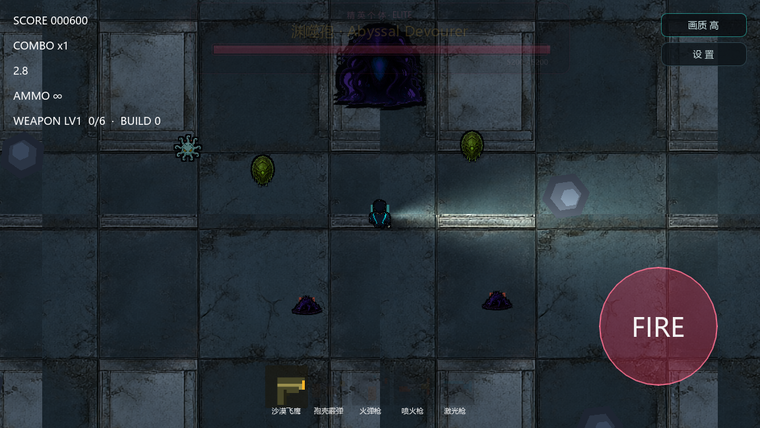
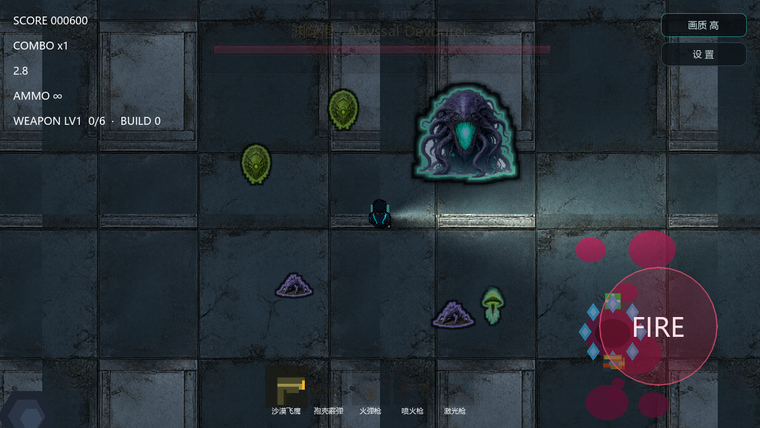
polish(wave2): fix readability and pacing of the second wave
First in-game screenshots showed the realistic agnes concept art collapsing into
dark blobs on the dark arena floor. Root causes and fixes:

- tint double-darkening: Enemy._apply_visual() multiplies the texture by
  stats.tint, a mechanism meant for plain white-base sprites. Realistic art
  already has full colour, so dark purple tints (Abyss 0.34/0.18/0.58) crushed
  it to near-black. All 4 wave-2 tints are now near-white; theme colour comes
  from the art itself.
- unreliable runtime outline: Enemy.tscn's outline shader is near-black and is
  disabled entirely on low quality. Theme-coloured glowing rims are now baked
  into the PNGs via tools/polish_wave2_sprites.py (PIL gamma lift + alpha
  dilation), so they survive every quality tier. Near-black pixels on the Abyss
  boss dropped 74.6% -> 26.3%, Burrower 72.4% -> 24.2%.
- too small / too rare: scale_mult 0.95-1.15 -> 1.28-1.40 (boss 3.6); combined
  spawn weight 0.31 -> 1.18, so wave 2 actually feels like a new enemy set.
- pacing: add a 45s warm-up before wave 1 boss (players were naked at spawn),
  shorten wave-2 boss delay 25s -> 14s, add a 6s mid-wave reinforcement, and
  pull opening spawns into view (240-400px instead of 420-620px).

Probe extended 18 -> 35 assertions to lock tint/scale/weights/pacing against
regression. Design doc upgraded to v1.1 with a readability-polish section and
two before/after comparisons. docs/**/*.import ignored (editor cache noise).
[…]

diff --git a/docs/wave2_design.html b/docs/wave2_design.html
@@ -81,6 +81,12 @@
     <h2><span class="bar"></span>波次流转（Wave Flow）</h2>
     <div class="flow">
       <div class="node">
+        <div class="t">Warm-up · 45s</div>
+        <div class="h">铺垫期</div>
+        <div class="d">常规刷怪，玩家先攒武器/晶体，避免开局裸装被 BOSS 追。</div>
+      </div>
+      <div class="arrow">→</div>
+      <div class="node">
         <div class="t">Wave 1</div>
         <div class="h">母巢孢 · Brood Mother</div>
         <div class="d">第一波 BOSS（已有）。HUD 目标：「击溃母巢孢 · 第一波」。</div>
@@ -95,7 +101,7 @@
       <div class="node">
         <div class="t">Wave 2</div>
         <div class="h">深巢反扑 · 三怪一王</div>
-        <div class="d">三新型孢体持续刷出；25 秒后召唤渊噬孢。</div>
+        <div class="d">立刻刷 5 只新怪（视野内 240~400px）→ 6s 补 4 只 → 14s 召唤渊噬孢。</div>
       </div>
     </div>
   </section>
@@ -120,10 +126,11 @@
             <tr><td>行为</td><td><span class="beh">walk</span><span class="beh">venom</span></td></tr>
             <tr><td>生命 / 移速</td><td>95 / 46</td></tr>
             <tr><td>攻击 / 听觉 / 警觉</td><td>10 / 300 / 420</td></tr>
-            <tr><td>体型倍率</td><td>1.15（厚甲）</td></tr>
+            <tr><td>体型倍率</td><td>1.40（厚甲）</td></tr>
             <tr><td>毒云</td><td>半径52 · 3.0s · 10/s</td></tr>
-            <tr><td>染色 / 血色</td><td>#ccd64d / #948f1f</td></tr>
-            <tr><td>刷出权重</td><td>tier0 0.10 · +0.16/档</td></tr>
+            <tr><td>tint / 血色</td><td>近白 1.0 / #948f1f</td></tr>
+            <tr><td>发光轮廓</td><td>#D8E25A 酸蚀黄绿</td></tr>
+            <tr><td>刷出权重</td><td>tier0 0.42 · +0.20/档</td></tr>
           </table>
         </div>
       </div>
@@ -144,9 +151,10 @@
             <tr><td>行为</td><td><span class="beh">ambush</span></td></tr>
             <tr><td>生命 / 移速</td><td>34 / 130</td></tr>
             <tr><td>攻击 / 听觉 / 警觉</td><td>12 / 380 / 360</td></tr>
-            <tr><td>体型倍率</td><td>0.95（瘦长）</td></tr>
-            <tr><td>染色 / 血色</td><td>#7642b8 / #4d2a78</td></tr>
-            <tr><td>刷出权重</td><td>tier0 0.12 · +0.10/档</td></tr>
+            <tr><td>体型倍率</td><td>1.28（瘦长）</td></tr>
+            <tr><td>tint / 血色</td><td>近白 1.0 / #4d2a78</td></tr>
+            <tr><td>发光轮廓</td><td>#C9A0FF 亮紫</td></tr>
+            <tr><td>刷出权重</td><td>tier0 0.40 · +0.16/档</td></tr>
           </table>
         </div>
       </div>
@@ -167,10 +175,11 @@
             <tr><td>行为</td><td><span class="beh">miasma</span></td></tr>
             <tr><td>生命 / 移速</td><td>70 / 50</td></tr>
             <tr><td>攻击 / 听觉 / 警觉</td><td>8 / 260 / 320</td></tr>
-            <tr><td>体型倍率</td><td>1.10（漂浮）</td></tr>
+            <tr><td>体型倍率</td><td>1.35（漂浮）</td></tr>
             <tr><td>死亡毒雾</td><td>半径90 · 4.5s · 11/s</td></tr>
-            <tr><td>染色 / 血色</td><td>#5cf08a / #48a866</td></tr>
-            <tr><td>刷出权重</td><td>tier0 0.09 · +0.14/档</td></tr>
+            <tr><td>tint / 血色</td><td>近白 1.0 / #48a866</td></tr>
+            <tr><td>发光轮廓</td><td>#7DFFA8 荧光绿</td></tr>
+            <tr><td>刷出权重</td><td>tier0 0.36 · +0.18/档</td></tr>
           </table>
         </div>
       </div>
@@ -191,11 +200,13 @@
             <tr><td>行为</td><td><span class="beh">boss</span></td></tr>
             <tr><td>生命 / 移速</td><td>5200 / 54</td></tr>
             <tr><td>攻击 / 听觉 / 警觉</td><td>24 / 1000 / 1000</td></tr>
-            <tr><td>体型倍率</td><td>3.2（巨型）</td></tr>
+            <tr><td>体型倍率</td><td>3.6（巨型）</td></tr>
             <tr><td>冲锋</td><td>间隔2.6s · ×5.6</td></tr>
             <tr><td>技能</td><td>弹幕18 · 喷息9 · 召唤5</td></tr>
             <tr><td>召唤体</td><td>蚀甲孢 Corroder</td></tr>
-            <tr><td>染色 / 血色</td><td>#574d94 / #801a6b</td></tr>
+            <tr><td>tint / 血色</td><td>纯白 1.0 / #801a6b</td></tr>
+            <tr><td>发光轮廓</td><td>#6EF2C4 深渊青绿</td></tr>
+            <tr><td>登场延迟</td><td>第二波开始后 14s</td></tr>
             <tr><td>得分</td><td>900</td></tr>
           </table>
         </div>
@@ -232,8 +243,8 @@
     <div class="map">
       <p style="margin-bottom:10px;color:var(--cyan-dim)">从设计到代码/资源的一一对应：</p>
       <p><span class="tag">数据</span> <code>assets/data/enemy_corroder.tres</code> · <code>enemy_burrower.tres</code> · <code>enemy_bloom.tres</code> · <code>enemy_abyss.tres</code></p>
-      <p><span class="tag">贴图</span> <code>assets/characters/enemy_corroder.png</code> · <code>enemy_burrower.png</code> · <code>enemy_bloom.png</code> · <code>enemy_abyss.png</code>（由 agnes 概念图经 <code>make_sprites.gd</code> 去白底导出）</p>
-      <p><span class="tag">波次</span> <code>scripts/enemy/WaveMode.gd</code> — 第一波 BOSS 击溃 → <code>EventBus.boss_defeated</code> → 弹出过渡卡 → 第二波刷怪 + 召唤渊噬孢</p>
+      <p><span class="tag">贴图</span> <code>assets/characters/enemy_*.png</code>（agnes 概念图 → <code>make_sprites.gd</code> 去白底 → <code>polish_wave2_sprites.py</code> 提亮 + 烘焙亮轮廓）</p>
+      <p><span class="tag">波次</span> <code>scripts/enemy/WaveMode.gd</code> — 45s 铺垫 → 第一波 BOSS 击溃 → <code>EventBus.boss_defeated</code> → 弹出过渡卡 → 第二波分批刷怪 + 14s 后召唤渊噬孢</p>
       <p><span class="tag">UI</span> <code>scripts/ui/WaveCard.gd</code> + <code>scenes/ui/WaveCard.tscn</code> — 「进入下一波 / WAVE 2」提示卡</p>
       <p><span class="tag">接入</span> <code>scenes/world/Arena.tscn</code> — 关闭 Spawner 计时精英（<code>elite_times=[]</code>），挂入 WaveCard 与 WaveMode</p>
     </div>
@@ -241,7 +252,7 @@
 
   <section>
     <h2><span class="bar"></span>实机落地（In-Game）</h2>
-    <p class="note">概念图经 <code style="color:var(--glow)">make_sprites.gd</code> 泛洪去白底 → 归一化 → 透明画布导出为游戏精灵；下方为 1152×648 实机截图。</p>
+    <p class="note">概念图经 <code style="color:var(--glow)">make_sprites.gd</code> 泛洪去白底 → 归一化 → <code>polish_wave2_sprites.py</code> 提亮与烘焙轮廓 → 游戏精灵；下方为 1152×648 打磨后实机截图。</p>
     <div class="shotgrid">
       <figure class="shotfig">
         <img src="art/ingame_wave_card.png" alt="第二波过渡卡实机截图">
@@ -249,16 +260,39 @@
       </figure>
       <figure class="shotfig">
         <img src="art/ingame_wave2_scene.png" alt="第二波竞技场实机截图">
-        <figcaption>第二波竞技场：渊噬孢 BOSS（顶部紫黑巨口 + 血条）与三只新型孢体同屏。</figcaption>
+        <figcaption>第二波竞技场：渊噬孢 BOSS（青绿巨口 + 荧光轮廓）与三只新型孢体同屏，暗地面上均清晰可辨。</figcaption>
       </figure>
     </div>
     <div class="map" style="margin-top:16px">
-      <p><span class="tag">验收</span> <code>tests/probe_wave.gd</code> 端到端波次探针 <b style="color:var(--glow)">18 / 18 PASS</b>（第一波 BOSS → 击溃 → 暂停弹卡 → 继续 → 第二波注入 3 新怪 → 召唤渊噬孢 → 击溃 → 区域肃清）。</p>
+      <p><span class="tag">验收</span> <code>tests/probe_wave.gd</code> 端到端波次探针 <b style="color:var(--glow)">35 / 35 PASS</b>（tint/体型/权重/节奏参数 + 第一波 BOSS → 击溃 → 暂停弹卡 → 继续 → 第二波注入 3 新怪 → 召唤渊噬孢 → 击溃 → 区域肃清）。</p>
       <p><span class="tag">截图</span> <code>tools/shot_wave2.gd</code> 带窗口实机取证（headless 取不到 framebuffer）。</p>
     </div>
   </section>
 
-  <footer>SporeFall · 苍澜纪工作室 · Wave 2 设计稿 v1 — 美术由 agnes-image 生成，资源经 make_sprites 管线入游戏</footer>
+  <section>
+    <h2><span class="bar"></span>可读性打磨（Readability Polish）</h2>
+    <p class="note">首版实机截图暴露的问题：写实深色概念图在暗地面上糊成一团，玩家分不清哪只是哪只。诊断后做了针对性修复。</p>
+    <div class="map" style="margin-bottom:16px">
+      <p><span class="tag">根因1</span> <b>深 tint 二重压暗</b>：<code>Enemy._apply_visual()</code> 用 <code>spr.modulate = stats.tint</code> 相乘染色（原本给白底简笔贴图用），而写实概念图已自带配色。渊噬孢原 tint <code>(0.34,0.18,0.58)</code> 乘上本就 avgLum≈51 的暗紫贴图 → 青绿巨口全灭。→ 4 张 tint 全部改近白，主题色交给贴图与轮廓。</p>
+      <p><span class="tag">根因2</span> <b>运行时描边失效</b>：<code>Enemy.tscn</code> 的 outline shader 是深黑色，深底配黑边＝无轮廓；且<b>低画质档会被 Quality 整个关掉</b>。→ 把主题色亮轮廓<b>烘焙进 PNG 自身</b>，任何画质档都可见。</p>
+      <p><span class="tag">根因3</span> <b>体型过小 / 权重过低</b>：scale_mult 0.95~1.15、刷出权重合计仅 0.31（walker 单只 1.0），第二波"换新怪"名不副实。→ 体型提到 1.28~1.40 / BOSS 3.6，权重合计提到 <b>1.18</b>，新怪成为第二波主力。</p>
+      <p><span class="tag">根因4</span> <b>节奏</b>：原实现开局立刻上 BOSS（玩家裸装）、弹卡后干等 25s、开场怪刷在 420~620px（视野外）。→ 加 45s 铺垫期；渊噬孢缩到 14s，中间 6s 补一批怪；开场刷怪收进 240~400px 视野内。</p>
+    </div>
+    <figure class="shotfig" style="margin-bottom:14px">
+      <img src="art/sprite_polish_compare.png" alt="四张贴图打磨前后对比">
+      <figcaption>贴图单体对比（上＝打磨前，下＝打磨后）：gamma 提亮暗部 + 主题色发光轮廓。渊噬孢近黑像素占比 <b>74.6% → 26.3%</b>，钻颅孢 <b>72.4% → 24.2%</b>。</figcaption>
+    </figure>
+    <figure class="shotfig">
+      <img src="art/wave2_before_after.png" alt="实机画面打磨前后对比">
+      <figcaption>1152×648 实机对比：打磨后渊噬孢青绿巨口与触须层次分明，三只新怪在暗地面上均带主题色轮廓、一眼可辨。</figcaption>
+    </figure>
+    <div class="map" style="margin-top:16px">
+      <p><span class="tag">管线</span> <code>gen_wave2.cjs</code> → <code>make_sprites.gd</code>（去白底/归一化）→ <b><code>tools/polish_wave2_sprites.py</code></b>（gamma 提亮 + 烘焙亮轮廓，可复现，<code>--dry</code> 只报告指标）→ <code>--headless --import</code>。重跑 make_sprites 后必须补跑抛光脚本。</p>
+      <p><span class="tag">防回归</span> <code>tests/probe_wave.gd</code> 新增 17 项断言锁定 tint 近白、scale、权重、铺垫期与刷怪半径，合计 <b style="color:var(--glow)">35 / 35 PASS</b>。</p>
+    </div>
+  </section>
+
+  <footer>SporeFall · 苍澜纪工作室 · Wave 2 设计稿 v1.1（含可读性打磨）— 美术由 agnes-image 生成，资源经 make_sprites + polish_wave2_sprites 管线入游戏</footer>
 
 </div>
 </body>

diff --git a/tools/polish_wave2_sprites.py b/tools/polish_wave2_sprites.py
@@ -1,0 +1,137 @@
+#!/usr/bin/env python
+# -*- coding: utf-8 -*-
+"""
+第二波贴图可读性抛光（PIL，可复现）。
+
+背景
+----
+agnes 概念图是「写实深色 + 已经上好色」的图，而本作旧的 enemy_*.png 是白底程序化
+简笔贴图，靠 EnemyStats.tint 相乘染色区分变种。把写实深图再乘一个深紫 tint 会糊成
+一坨黑紫；且 Enemy.tscn 的运行时描边是深黑色，在暗地面上等于没有轮廓，低画质档
+还会被 Quality 整个关掉。
+
+对策（不改运行时代码，零回归风险）
+----------------------------------
+1) 提亮暗部：gamma 校正，把 avgLum ~50 抬到 ~100，同时保住青绿荧光高光；
+2) 把「主题色亮轮廓」烘焙进 PNG 自身 —— 不依赖运行时描边，任何画质档都可见；
+3) 4 个新 .tres 的 tint 改为近白，让写实概念图的本色完整透出（见各 .tres）。
+
+顺序（重要）
+------------
+    tools/gen_wave2.cjs        -> build/sprites_raw/*.png      概念原图
+    tools/make_sprites.gd      -> assets/characters/*.png      去白底 + 归一化
+    tools/polish_wave2_sprites.py -> 覆写上面 4 张            提亮 + 烘焙亮轮廓  <- 本脚本
+    Godot --headless --import                                  刷新贴图导入缓存
+重跑 make_sprites.gd 会冲掉本脚本效果，之后必须再跑一次本脚本。
+
+用法: python tools/polish_wave2_sprites.py [--gamma 0.62] [--dry]
+"""
+from __future__ import annotations
+
+import argparse
+import shutil
+from pathlib import Path
+
+from PIL import Image, ImageFilter
+
+ROOT = Path(__file__).resolve().parent.parent
+SPRITES = ROOT / "assets" / "characters"
+BEFORE_DIR = ROOT / "docs" / "art"
+
+# 每只怪的发光轮廓色（与 docs/wave2_design.html 的设定色板一致）
+# 第三项是 gamma：原图越暗提得越狠；绽孢本就荧光高亮，只轻微抬一点避免过曝。
+JOBS = {
+    "enemy_corroder.png": (0xD8, 0xE2, 0x5A, 0.66),  # 酸蚀黄绿
+    "enemy_burrower.png": (0xC9, 0xA0, 0xFF, 0.56),  # 亮紫
+    "enemy_bloom.png":    (0x7D, 0xFF, 0xA8, 0.86),  # 荧光绿
+    "enemy_abyss.png":    (0x6E, 0xF2, 0xC4, 0.54),  # 深渊青绿
+}
+
+
+def lift_dark(img: Image.Image, gamma: float) -> Image.Image:
+    """只提亮 RGB，alpha 原样保留；gamma<1 抬暗部且高光不易过曝。"""
+    rgba = img.convert("RGBA")
+    r, g, b, a = rgba.split()
+    lut = [min(255, round(255 * (i / 255.0) ** gamma)) for i in range(256)]
+    rgb = Image.merge("RGB", (r.point(lut), g.point(lut), b.point(lut)))
+    return Image.merge("RGBA", (*rgb.split(), a))
+
+
+def bake_rim(img: Image.Image, color: tuple[int, int, int]) -> Image.Image:
+    """把一圈主题色亮轮廓烘焙进贴图：膨胀 alpha 求外环，底层铺色，再把主体盖回去。"""
+    alpha = img.getchannel("A")
+
+    # 内层实边 + 外层柔光，两层都只作用在透明背景上
+    inner = alpha.filter(ImageFilter.MaxFilter(9))
+    outer = alpha.filter(ImageFilter.MaxFilter(17)).filter(ImageFilter.GaussianBlur(2.2))
+
+    rim_hard = Image.new("RGBA", img.size, (*color, 0))
+    rim_hard.putalpha(Image.eval(
+        Image.fromarray(_sub_alpha(inner, alpha)), lambda v: min(210, v)))
+    glow = Image.new("RGBA", img.size, (*color, 0))
+    glow.putalpha(Image.eval(
+        Image.fromarray(_sub_alpha(outer, alpha)), lambda v: int(v * 0.42)))
+
+    out = Image.alpha_composite(glow, rim_hard)
+    return Image.alpha_composite(out, img)
+
+
+def _sub_alpha(a: Image.Image, b: Image.Image):
+    """max(a-b, 0)，用 numpy 更省事；无 numpy 时退回纯 PIL 的 ImageChops。"""
+    try:
+        import numpy as np
+        d = np.asarray(a, dtype=np.int16) - np.asarray(b, dtype=np.int16)
+        return np.clip(d, 0, 255).astype("uint8")
+    except ImportError:
+        from PIL import ImageChops
+        return ImageChops.subtract(a, b)
+
+
+def stats(img: Image.Image) -> tuple[float, float]:
+    """非透明像素的平均亮度 / 近黑占比，用于量化抛光效果。"""
+    import numpy as np
+    arr = np.asarray(img.convert("RGBA"))
+    m = arr[..., 3] > 128
+    if not m.any():
+        return 0.0, 0.0
+    px = arr[..., :3][m].astype(float)
+    lum = px[..., 0] * 0.299 + px[..., 1] * 0.587 + px[..., 2] * 0.114
+    return float(lum.mean()), float((lum < 60).mean() * 100)
+
+
+def main() -> None:
+    ap = argparse.ArgumentParser()
+    ap.add_argument("--gamma", type=float, default=0.0,
+                    help=">0 时覆盖每只怪的自适应 gamma")
+    ap.add_argument("--dry", action="store_true", help="只打印指标，不写文件")
+    args = ap.parse_args()
+
+    BEFORE_DIR.mkdir(parents=True, exist_ok=True)
+    for name, (r, g, b, gamma) in JOBS.items():
+        color = (r, g, b)
+        gamma = args.gamma if args.gamma > 0 else gamma
+        path = SPRITES / name
+        if not path.exists():
+            print(f"MISS {name}")
+            continue
+        original = Image.open(path).convert("RGBA")
+        before_lum, before_dark = stats(original)
+
+        polished = bake_rim(lift_dark(original, gamma), color)
+        after_lum, after_dark = stats(polished)
+
+        if not args.dry:
+            # 抛光前的副本留作 before/after 对比证据（首次运行才备份，避免二次抛光把它覆盖）
+            before_path = BEFORE_DIR / f"sprite_before_{name}"
+            if not before_path.exists():
+                shutil.copy2(path, before_path)
+            polished.save(path, "PNG", optimize=True)
+
+        print(f"{name:24s} lum {before_lum:5.1f} -> {after_lum:5.1f}   "
+              f"dark {before_dark:4.1f}% -> {after_dark:4.1f}%"
+              f"{'  [DRY]' if args.dry else ''}")
+    print("DONE")
+
+
+if __name__ == "__main__":
+    main()
